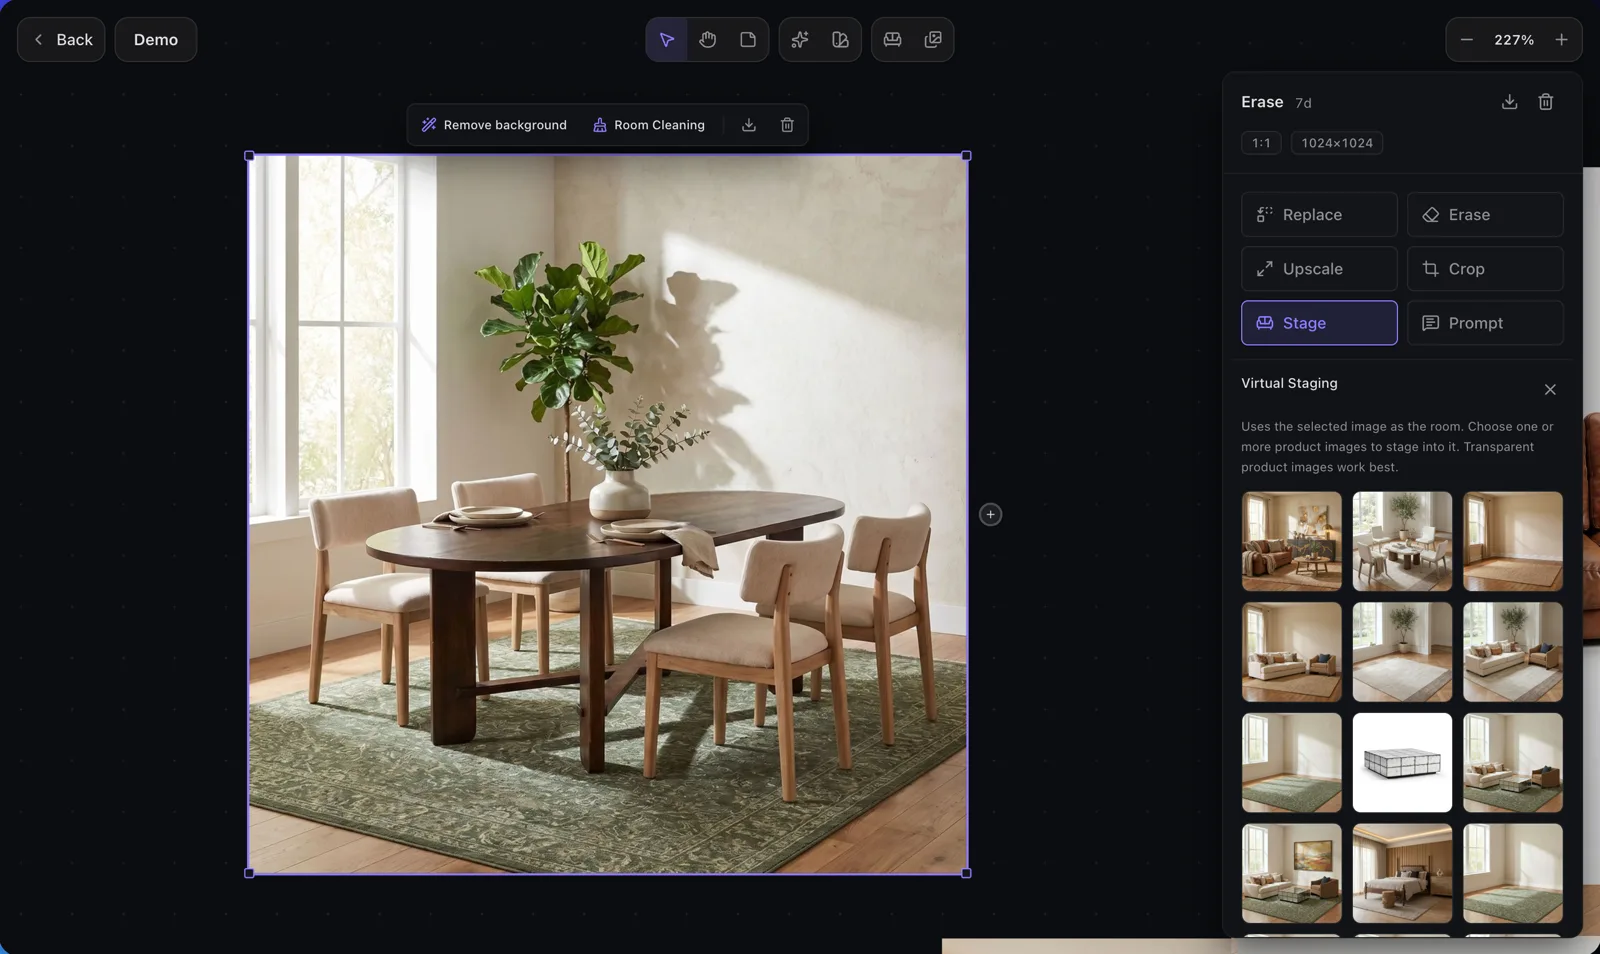
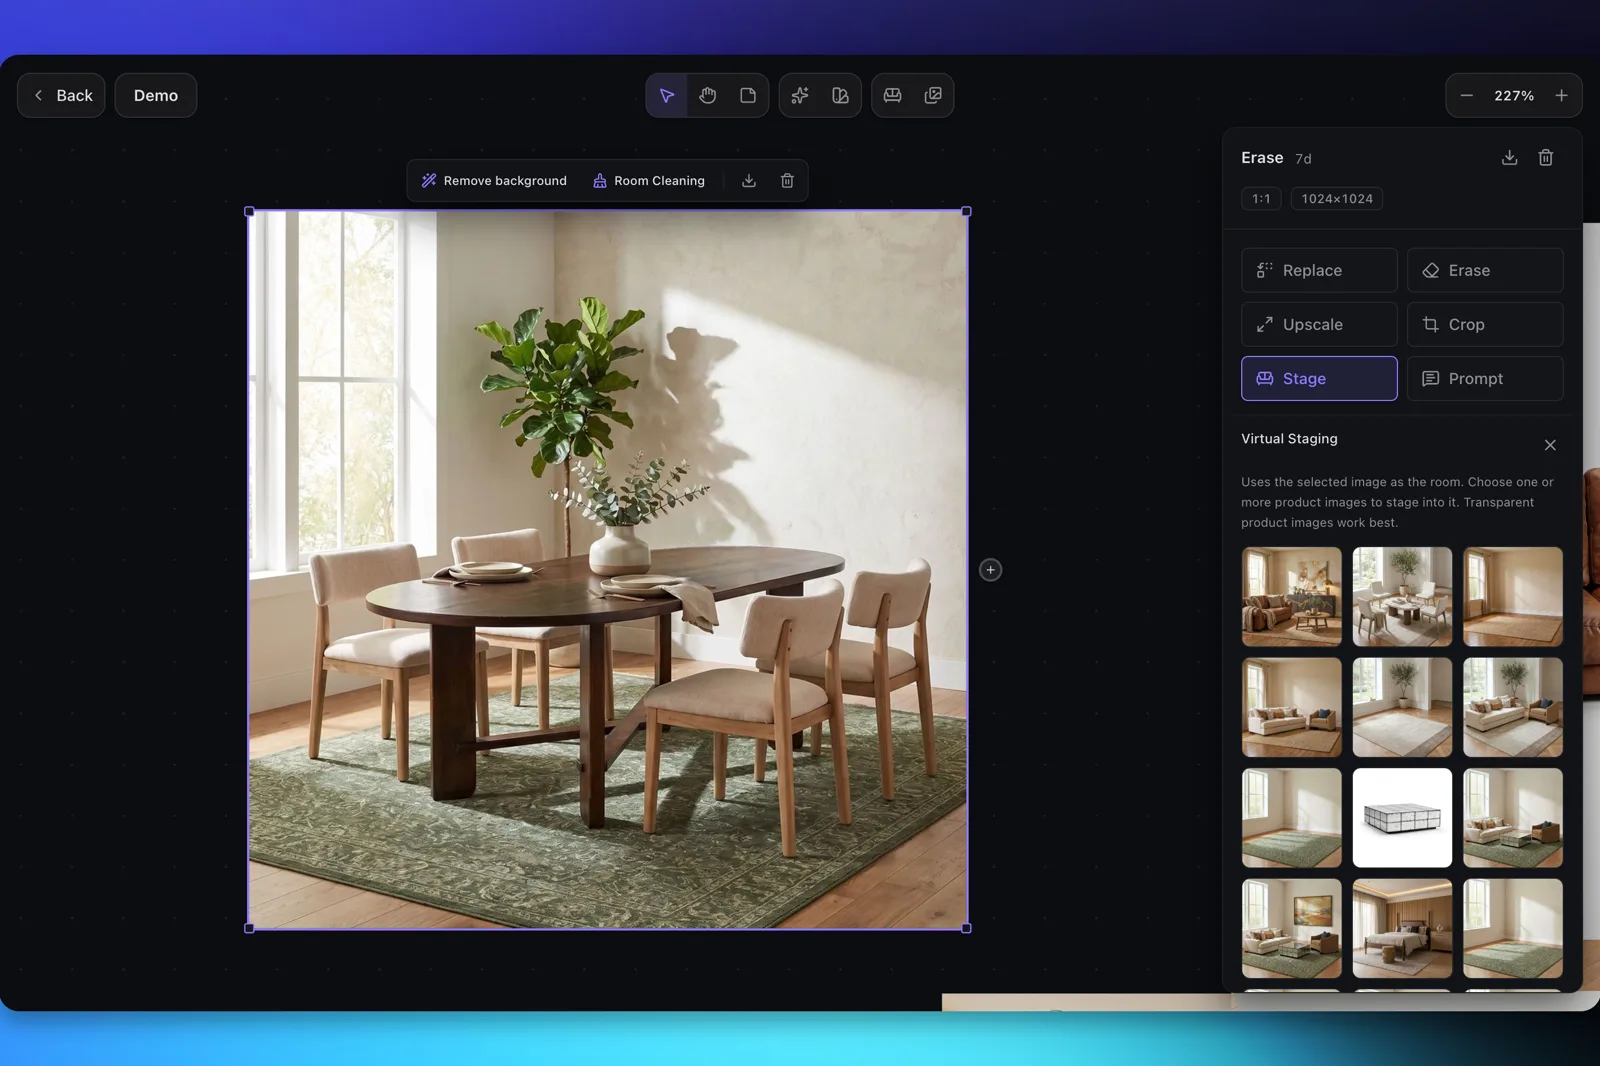
DecorX: drop the 2024 and early 2025 stills, cleaner Portal screens, no letterbox bar
The Sep 2024 visualizer and Jan 2025 chat stills come out at his call. The 2025 Portal now shows its Attributes Generation page (customer's name covered) and its edit view with history, from the same 23 May 2025 Loom. Every still is cropped to the frame's 3:2, so the frame's fill no longer shows as a bar, and the toggle labels are short enough for a 375px phone.

diff --git a/app/work/decorx/page.tsx b/app/work/decorx/page.tsx
@@ -44,47 +44,38 @@ const SECTIONS = [
 
 
 /**
- * The versions before the platform, from his walkthrough Looms (Loom Notes.md, DecorX): Caracole (INT), 11 Sep
- * 2024, at 5:00; LLM Inpainting Flow, 14 Jan 2025, at 6:15; Portal, 23 May 2025, at 0:30, cropped above the
- * signed-in customer's name; Smart Image Generation, 15 Jan 2026, at 7:45, two days into kelvinman/canvas (first
- * commit 13 Jan 2026), which became decorx-ai/canvas. The 2025 Portal was a different product that shared the
- * name (his account, 11 Nov 2026, DecorX/History.md).
+ * The versions before the platform, from his walkthrough Looms (Loom Notes.md, DecorX). The 2025 Portal: his
+ * Portal Loom of 23 May 2025, at 15:11 (the customer's name in the sidebar covered with plain sidebar) and 10:35.
+ * It was a different product that shared the name (his account, 11 Nov 2026, DecorX/History.md). Jan 2026: Smart
+ * Image Generation, 15 Jan 2026, at 7:45, two days into kelvinman/canvas (first commit 13 Jan 2026), which became
+ * decorx-ai/canvas. He dropped the Sep 2024 and Jan 2025 stills on 11 Nov 2026 ("really bad").
  */
 const HISTORY: Still[] = [
   {
-    label: "Sep 2024",
-    src: "history-2024-visualizer.webp",
-    width: 846,
-    height: 584,
-    alt: "Caracole's trade site with a Visualizations tab of six room images",
-    title: "A visualizer inside a brand's site",
-    text: "Shoppers on Caracole's trade site uploaded a photo of a room and placed a product in it. A chat bubble, powered by DecorX, took on the brand's colour.",
+    label: "Attributes",
+    src: "history-2025-attributes.webp",
+    width: 1086,
+    height: 724,
+    alt: "The 2025 Portal's Attributes Generation page, with six imports by date and their status",
+    title: "The first Portal, 2025",
+    text: "Brands imported products from a spreadsheet, and DecorX wrote the attributes behind search, filters and SEO. Today's Portal reused the name for a new product.",
   },
   {
-    label: "Jan 2025",
-    src: "history-2025-copilot.webp",
-    width: 844,
-    height: 606,
-    alt: "Three chat windows: picking the furniture to replace, then choosing a room type from suggested replies",
-    title: "The same flow, inside a chat",
-    text: "Every step became a message, with suggested replies styled as buttons. Keeping it all in one chat meant a brand could add it to its own site.",
+    label: "Editing",
+    src: "history-2025-portal-edit.webp",
+    width: 996,
+    height: 664,
+    alt: "The 2025 Portal's edit view: a history column, the generated room, and tools to erase, replace and reframe",
+    title: "Editing with a history, 2025",
+    text: "Every edit added a version to the history beside the image, so you could go back to any of them.",
   },
   {
-    label: "Mar 2025",
-    src: "history-2025-portal.webp",
-    width: 998,
-    height: 614,
-    alt: "The 2025 Portal: Magic Background, Background Removal and Attributes Generation, with a project of four room images",
-    title: "The first Portal, for brands",
-    text: "A tool for brands to put products on new backgrounds, remove backgrounds and fill in product details from a spreadsheet. Today's Portal reused the name for a new product.",
-  },
-  {
-    label: "Jan 2026",
+    label: "Prototype",
     src: "history-2026-pipeline.webp",
-    width: 1442,
+    width: 1374,
     height: 916,
     alt: "Nodes on a canvas: product sets and a floor plan with five rooms, wired into Generate Rooms and a gallery",
-    title: "The first prototype in code",
+    title: "The first prototype in code, January 2026",
     text: "Two days in, it wired a floor plan, its rooms and product sets into a step that generates each room. That prototype became the platform DecorX runs on now.",
   },
 ];
@@ -116,7 +107,7 @@ const EDITOR: Still[] = [
     label: "Staging",
     src: "editor-2026-staging.webp",
     width: 1600,
-    height: 954,
+    height: 1066,
     alt: "A dining room in DecorX's editor, with Room Cleaning above it and a Virtual Staging panel of rooms beside it",
     title: "Staging and room cleaning, 2026",
     text: "Stage products into a photo of a room, or clean the room of its furniture first.",
@@ -125,7 +116,7 @@ const EDITOR: Still[] = [
     label: "Compare",
     src: "editor-2026-compare.webp",
     width: 1430,
-    height: 894,
+    height: 952,
     alt: "A generated dining room beside the product photo of the table in it, with the edit tools on the right",
     title: "Compare, 2026",
     text: "Check an edit against the real product photo before keeping it.",
@@ -241,7 +232,7 @@ export default function DecorX() {
       <Stills
         items={HISTORY}
         label="Version"
-        caption="Stills from my walkthrough videos. The first three are designs in Figma, and the last one's gallery shows placeholder images."
+        caption="Stills from my walkthrough videos. The first two are designs in Figma, and the last one's gallery shows placeholder images."
       />
 
       <h2 id="starting-over" className={styles.subhead}>
